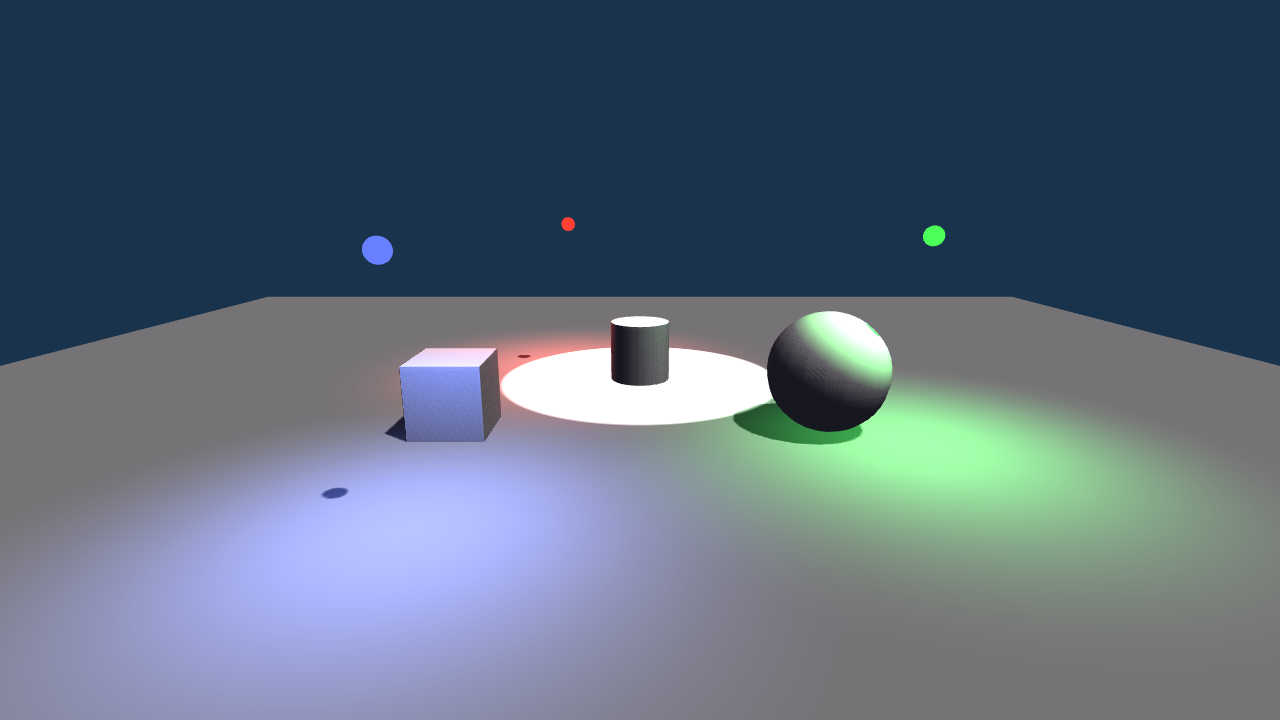
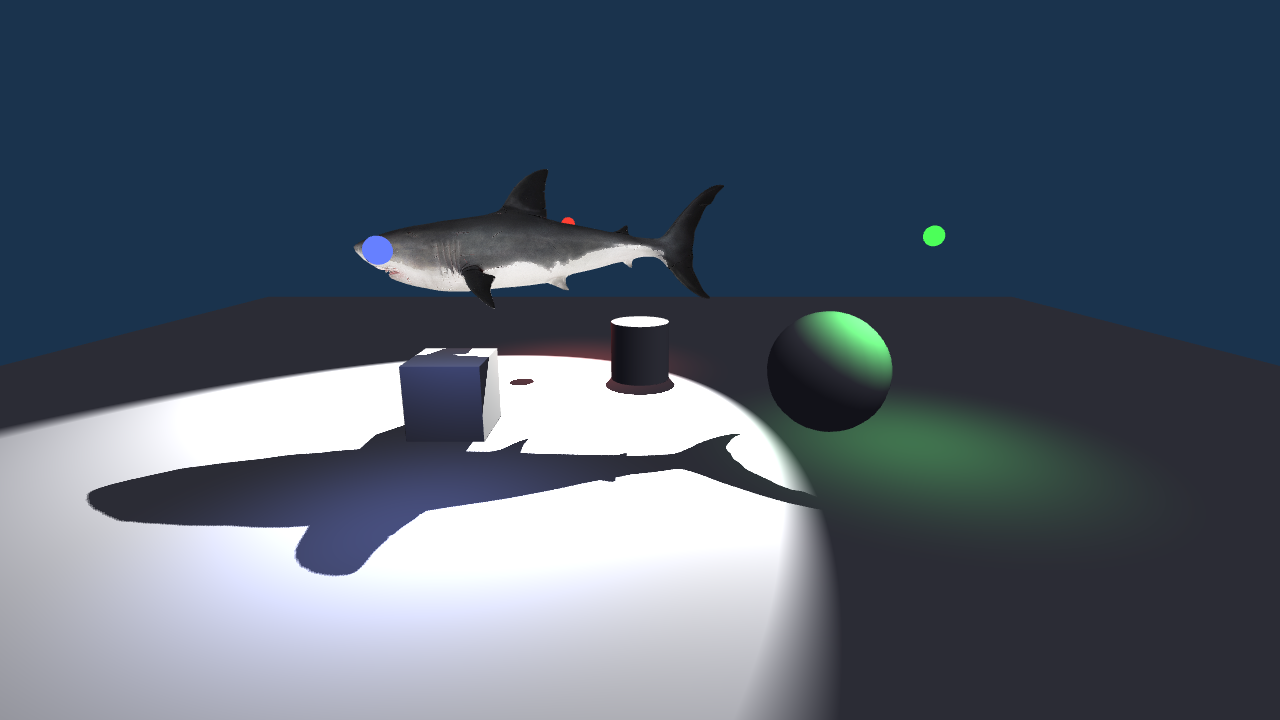
feat(web): wasm shadow parity (spot + skinned casters) + fix wasm build (#104)
Brings the wasm runtime's shadows up to parity with desktop — and fixes
a build
break on `main`.

## The build break

#100 renamed `render_directional_shadow` → `render_shadow_pass` and
added a
`light_index` field to `ShadowUniforms`. #103 (wasm directional shadows)
was
CI-green against the *pre-rename* main, then squash-merged on top of
#100, so
`runtime/functor-runtime-web` currently fails to compile on `main`
(`lib.rs`
still calls the old `render_directional_shadow`, and builds an
incomplete
`ShadowUniforms`). `cargo check -p functor-runtime-web --target
wasm32-unknown-unknown` reproduces it.

## The parity change

The wasm shadow pass now mirrors the desktop orchestration exactly:

- select the first shadow-casting light with the `light_space_matrix`
  dispatcher — **directional or spot**, honoring `casts_shadows()`
- call `render_shadow_pass`
- thread `light_index` through `ShadowUniforms` so the lit shader
applies the
  shadow to the casting light's contribution only

**Skinned casters come for free**: the `SkinnedDepthMaterial` is
selected inside
the shared `Scene3D::render` depth pass (#101), which both runtimes
drive — no
wasm-specific code needed.

## Validation

`cargo check --target wasm32` is clean. Regenerates the Playwright wasm
golden,
which now shows the swimming **shark casting a deforming shadow** inside
the
spot searchlight's pool (skinned + spot, on software WebGL2). Confirmed
visually.

🤖 Generated with [Claude Code](https://claude.com/claude-code)

Pull request: feat(web): wasm shadow parity (spot + skinned casters) + fix wasm build
Brings the wasm runtime's shadows up to parity with desktop — and fixes a build
break on `main`.

## The build break

#100 renamed `render_directional_shadow` → `render_shadow_pass` and added a
`light_index` field to `ShadowUniforms`. #103 (wasm directional shadows) was
CI-green against the *pre-rename* main, then squash-merged on top of #100, so
`runtime/functor-runtime-web` currently fails to compile on `main` (`lib.rs`
still calls the old `render_directional_shadow`, and builds an incomplete
`ShadowUniforms`). `cargo check -p functor-runtime-web --target
wasm32-unknown-unknown` reproduces it.

## The parity change

The wasm shadow pass now mirrors the desktop orchestration exactly:

- select the first shadow-casting light with the `light_space_matrix`
  dispatcher — **directional or spot**, honoring `casts_shadows()`
- call `render_shadow_pass`
- thread `light_index` through `ShadowUniforms` so the lit shader applies the
  shadow to the casting light's contribution only

**Skinned casters come for free**: the `SkinnedDepthMaterial` is selected inside
the shared `Scene3D::render` depth pass (#101), which both runtimes drive — no
wasm-specific code needed.

## Validation

`cargo check --target wasm32` is clean. Regenerates the Playwright wasm golden,
which now shows the swimming **shark casting a deforming shadow** inside the
spot searchlight's pool (skinned + spot, on software WebGL2). Confirmed visually.

🤖 Generated with [Claude Code](https://claude.com/claude-code)

diff --git a/runtime/functor-runtime-web/src/lib.rs b/runtime/functor-runtime-web/src/lib.rs
@@ -240,18 +240,18 @@ async fn run_async() -> Result<(), JsValue> {
             let frame: Frame = functor_runtime_common::from_js_value(val);
 
             // Shadow pass: render the scene into the shadow map from the first
-            // shadow-casting directional light, before the main pass.
+            // shadow-casting light (directional or spot), before the main pass.
+            // Mirrors the desktop runtime; skinned casters come for free via the
+            // shared depth pass in Scene3D::render.
             let shadow = frame
                 .lights
                 .iter()
-                .find_map(|l| match l {
-                    functor_runtime_common::Light::Directional { direction, .. } => Some(*direction),
-                    _ => None,
+                .enumerate()
+                .find_map(|(i, l)| {
+                    functor_runtime_common::shadow::light_space_matrix(l).map(|m| (i, m))
                 })
-                .map(|direction| {
-                    let light_space_matrix =
-                        functor_runtime_common::shadow::directional_light_space_matrix(direction);
-                    functor_runtime_common::shadow::render_directional_shadow(
+                .map(|(light_index, light_space_matrix)| {
+                    functor_runtime_common::shadow::render_shadow_pass(
                         &gl,
                         shader_version,
                         asset_cache.clone(),
@@ -265,6 +265,7 @@ async fn run_async() -> Result<(), JsValue> {
                     functor_runtime_common::ShadowUniforms {
                         depth_texture: shadow_map.depth_texture,
                         light_space_matrix,
+                        light_index: light_index as i32,
                     }
                 });
 